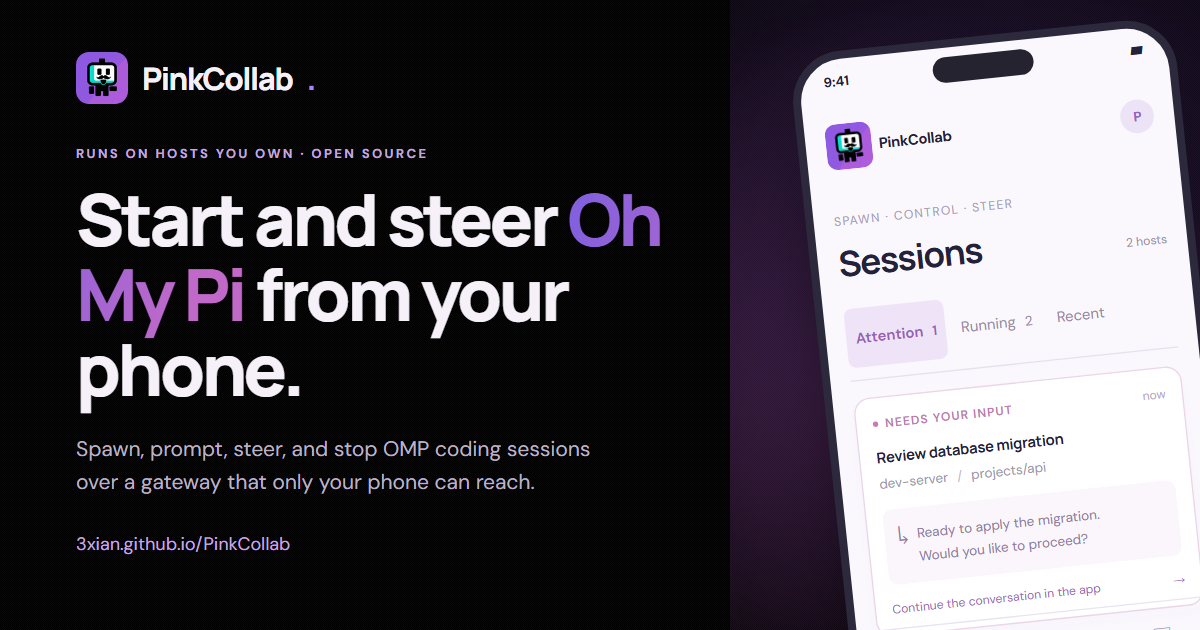
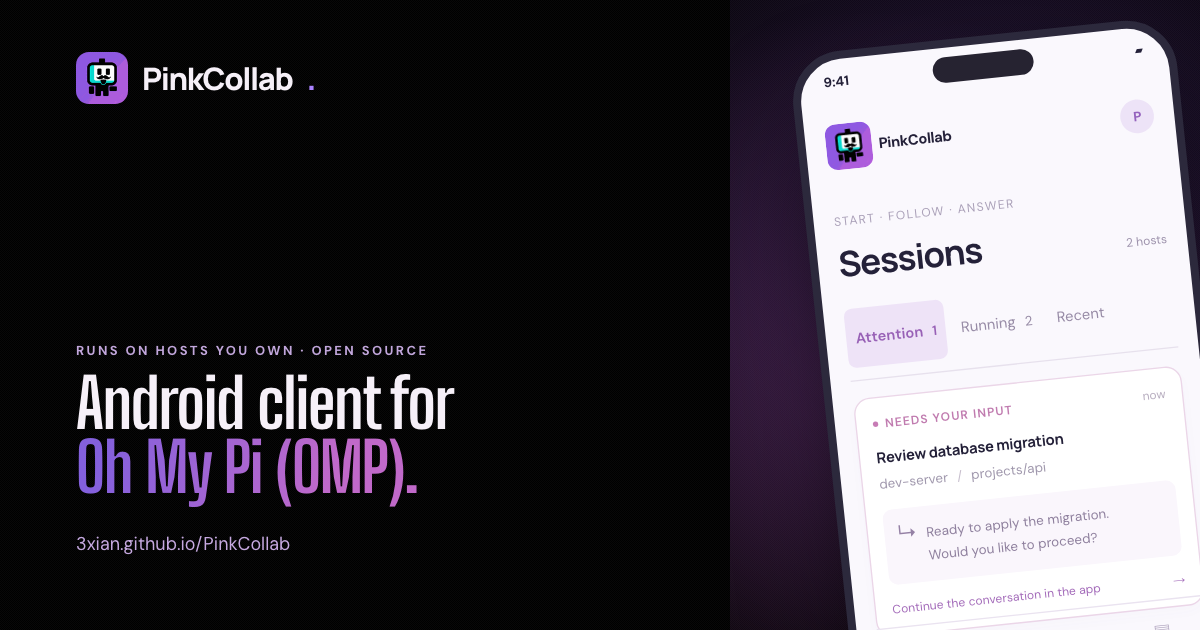
docs: retitle PinkCollab as an Android client for OMP
Replace the spawn-and-steer pitch and set the site title in Big Shoulders Display.

diff --git a/website/index.html b/website/index.html
@@ -4,11 +4,11 @@
   <meta charset="utf-8">
   <meta name="viewport" content="width=device-width, initial-scale=1">
   <meta name="theme-color" content="#15121d">
-  <meta name="description" content="Start and steer Oh My Pi (OMP) coding sessions on your own computers from Android. Pick a workspace, launch the work, follow live progress, and answer when your agent needs you.">
+  <meta name="description" content="Oh My Pi is a coding agent for the terminal. PinkCollab starts a real OMP process on a host you own, so you can prompt, follow, interrupt, and stop it from your phone.">
   <link rel="canonical" href="https://3xian.github.io/PinkCollab/">
   <meta property="og:site_name" content="PinkCollab">
-  <meta property="og:title" content="PinkCollab — Start and Steer OMP Sessions from Android">
-  <meta property="og:description" content="Launch Oh My Pi sessions on your own computer, follow live progress, and answer when your coding agent needs you.">
+  <meta property="og:title" content="PinkCollab — Android client for Oh My Pi (OMP)">
+  <meta property="og:description" content="Oh My Pi is a coding agent for the terminal. PinkCollab starts a real OMP process on a host you own, so you can prompt, follow, interrupt, and stop it from your phone.">
   <meta property="og:type" content="website">
   <meta property="og:url" content="https://3xian.github.io/PinkCollab/">
   <meta property="og:image" content="https://3xian.github.io/PinkCollab/assets/social-card.png">
@@ -17,18 +17,18 @@
   <meta property="og:image:height" content="630">
   <meta property="og:image:alt" content="The PinkCollab wordmark beside an Android phone showing a session list fed by two connected hosts.">
   <meta name="twitter:card" content="summary_large_image">
-  <meta name="twitter:title" content="PinkCollab — Start and Steer OMP Sessions from Android">
-  <meta name="twitter:description" content="Launch Oh My Pi sessions on your own computer, follow live progress, and answer when your coding agent needs you.">
+  <meta name="twitter:title" content="PinkCollab — Android client for Oh My Pi (OMP)">
+  <meta name="twitter:description" content="Oh My Pi is a coding agent for the terminal. PinkCollab starts a real OMP process on a host you own, so you can prompt, follow, interrupt, and stop it from your phone.">
   <meta name="twitter:image" content="https://3xian.github.io/PinkCollab/assets/social-card.png">
   <link rel="icon" href="assets/favicon-48.png" sizes="48x48" type="image/png">
   <link rel="icon" href="assets/favicon-32.png" sizes="32x32" type="image/png">
   <link rel="apple-touch-icon" sizes="180x180" href="assets/apple-touch-icon.png">
   <link rel="preconnect" href="https://fonts.googleapis.com">
   <link rel="preconnect" href="https://fonts.gstatic.com" crossorigin>
-  <link rel="stylesheet" href="https://fonts.googleapis.com/css2?family=DM+Sans:wght@400..700&family=Manrope:wght@400..800&display=swap">
+  <link rel="stylesheet" href="https://fonts.googleapis.com/css2?family=Big+Shoulders+Display:wght@700&family=DM+Sans:wght@400..700&family=Manrope:wght@400..800&display=swap">
   <link rel="stylesheet" href="styles.css">
   <script src="app.js" defer></script>
-  <title>PinkCollab — Start and Steer OMP Sessions from Android</title>
+  <title>PinkCollab — Android client for Oh My Pi (OMP)</title>
 </head>
 <body>
   <a class="skip-link" href="#main">Skip to content</a>
@@ -40,10 +40,9 @@
     <main id="main">
       <section class="hero" aria-labelledby="hero-title">
         <div class="hero-copy">
-          <p class="eyebrow"><span class="live-dot" aria-hidden="true"></span> PINKCOLLAB FOR OMP · OPEN SOURCE</p>
-          <h1 id="hero-title">Start and steer<br><span>Oh My Pi (OMP)</span><br>from Android.</h1>
-          <p class="hero-description">Launch work on your own computer.<br>Follow live progress. Answer when you’re needed.</p>
-          <p class="hero-detail"><a class="text-link" href="https://omp.sh/">Oh My Pi</a> is a coding agent for the terminal. PinkCollab starts a real <code>omp --mode rpc-ui</code> process on a host you own, then keeps its whole lifecycle — prompt, steer, interrupt, stop — in your pocket.</p>
+          <p class="eyebrow"><span class="live-dot" aria-hidden="true"></span> OPEN SOURCE AI TOOL</p>
+          <h1 id="hero-title">Android client for<br><span>Oh My Pi (OMP).</span></h1>
+          <p class="hero-detail"><a class="text-link" href="https://omp.sh/">Oh My Pi</a> is a coding agent for the terminal. PinkCollab starts a real <code>omp --mode rpc-ui</code> process on a host you own, so you can prompt, follow, interrupt, and stop it from your phone.</p>
           <div class="hero-actions"><a class="button button-primary" href="#get-started">Get started <span aria-hidden="true">↗</span></a><a class="button button-text" href="https://github.com/3xian/PinkCollab">Explore the source <span aria-hidden="true">→</span></a></div>
           <div class="hero-platforms"><span>Oh My Pi</span><i aria-hidden="true"></i><span>Android client</span><i aria-hidden="true"></i><span>Rust gateway</span><i aria-hidden="true"></i><span>Your own hosts</span></div>
         </div>
@@ -55,7 +54,7 @@
             <div class="phone-top" aria-hidden="true"><span>9:41</span><div class="camera"></div><span>▰</span></div>
             <div class="phone-content">
               <div class="phone-heading"><img src="assets/logo-96.png" width="34" height="34" decoding="async" alt=""><span>PinkCollab</span><span class="avatar">P</span></div>
-              <div class="phone-title"><div><span class="phone-overline">SPAWN · CONTROL · STEER</span><h2>Sessions</h2></div><span class="host-count">2 hosts</span></div>
+              <div class="phone-title"><div><span class="phone-overline">START · FOLLOW · ANSWER</span><h2>Sessions</h2></div><span class="host-count">2 hosts</span></div>
               <div class="task-tabs" role="tablist" aria-label="Demo session groups">
                 <button id="tab-attention" class="task-tab active" role="tab" aria-selected="true" aria-controls="demo-tasks" data-group="attention">Attention <span>1</span></button>
                 <button id="tab-running" class="task-tab" role="tab" aria-selected="false" aria-controls="demo-tasks" tabindex="-1" data-group="running">Running <span>2</span></button>
@@ -73,10 +72,10 @@
           <span class="scene-caption">Illustrative session view · try the tabs</span>
         </div>
       </section>
-      <div class="principles-strip"><p>One phone.<br><strong>Every workspace.</strong></p><span>Start the work</span><span>Make the call</span><span>Keep it moving <b aria-hidden="true">↗</b></span></div>
+      <div class="principles-strip"><p>One phone.<br><strong>Every workspace.</strong></p><span>Start a session</span><span>Follow it live</span><span>Answer when needed <b aria-hidden="true">↗</b></span></div>
       <section class="workflow section" id="how-it-works" aria-labelledby="workflow-title">
         <div class="section-heading"><p class="eyebrow">FROM YOUR DESK TO YOUR POCKET</p><h2 id="workflow-title">Three steps to a running session.</h2><p>Named exactly as they appear in the Android app.</p></div>
-        <div class="steps"><article><span class="step-number">01</span><h3>Choose a workspace.</h3><p>Open <strong>Workspaces</strong>, browse the roots a paired host allows, and pick the project directory you want to work in.</p></article><article><span class="step-number">02</span><h3>Send the first prompt.</h3><p>Your prompt spawns <code>omp --mode rpc-ui</code> inside that directory. The session joins the list right away with its live status.</p></article><article><span class="step-number">03</span><h3>Follow and steer.</h3><p>Watch streaming replies and tool activity, then use <strong>Send</strong>, <strong>Interrupt</strong>, or <strong>Stop</strong> while the app is connected.</p></article></div>
+        <div class="steps"><article><span class="step-number">01</span><h3>Choose a workspace.</h3><p>Open <strong>Workspaces</strong>, browse the roots a paired host allows, and pick the project directory you want to work in.</p></article><article><span class="step-number">02</span><h3>Send the first prompt.</h3><p>Your prompt spawns <code>omp --mode rpc-ui</code> inside that directory. The session joins the list right away with its live status.</p></article><article><span class="step-number">03</span><h3>Follow it live.</h3><p>Watch streaming replies and tool activity, then use <strong>Send</strong>, <strong>Interrupt</strong>, or <strong>Stop</strong> while the app is connected.</p></article></div>
         <p class="steps-note">No terminal emulator, no editor: PinkCollab starts and controls OMP sessions on your host. It does not attach to a terminal session.</p>
       </section>
       <section class="getting-started section" id="get-started" aria-labelledby="start-title">
@@ -123,10 +122,10 @@ cargo build --release --locked --bin pinkcollab-gateway</code></pre>
       </section>
       
       <section class="architecture section" id="architecture" aria-labelledby="architecture-title">
-        <div class="section-heading architecture-heading"><p class="eyebrow">FROM A TAP TO A RUNNING AGENT</p><h2 id="architecture-title">Your phone starts the work.<br>Your host stays in control.</h2><p>PinkCollab is a direct bridge to OMP — not another agent and not a cloud relay.</p></div>
+        <div class="section-heading architecture-heading"><p class="eyebrow">FROM A TAP TO A RUNNING AGENT</p><h2 id="architecture-title">Your phone starts the session.<br>Your host stays in control.</h2><p>PinkCollab is a direct bridge to OMP — not another agent and not a cloud relay.</p></div>
         <figure class="architecture-panel">
-          <div class="architecture-flow" aria-label="PinkCollab architecture: the Android app connects over HTTPS and WebSocket to a Rust gateway on your host. The gateway spawns and controls Oh My Pi, which connects to your model provider. Workspaces, metadata, and session history stay on the host.">
-            <article class="arch-node arch-external arch-phone-node"><span class="arch-icon" aria-hidden="true">▣</span><span class="arch-kicker">IN YOUR HAND</span><h3>Android app</h3><p>Spawn, follow, steer</p></article>
+          <div class="architecture-flow" aria-label="PinkCollab architecture: the Android app connects over HTTPS and WebSocket to a Rust gateway on your host. The gateway starts and controls Oh My Pi, which connects to your model provider. Workspaces, metadata, and session history stay on the host.">
+            <article class="arch-node arch-external arch-phone-node"><span class="arch-icon" aria-hidden="true">▣</span><span class="arch-kicker">IN YOUR HAND</span><h3>Android app</h3><p>Start, follow, answer</p></article>
             <div class="arch-connection arch-connection-outer"><span>HTTPS · WSS</span><i aria-hidden="true"></i><small>commands + live events</small></div>
             <div class="arch-host">
               <span class="arch-boundary-label">YOUR COMPUTER OR SERVER</span>
@@ -140,7 +139,7 @@ cargo build --release --locked --bin pinkcollab-gateway</code></pre>
             <div class="arch-connection arch-connection-outer"><span>provider API</span><i aria-hidden="true"></i><small>model requests</small></div>
             <article class="arch-node arch-external arch-provider-node"><span class="arch-icon" aria-hidden="true">✦</span><span class="arch-kicker">YOUR ACCOUNT</span><h3>Model provider</h3><p>Your chosen models</p></article>
           </div>
-          <figcaption class="architecture-summary"><span><b>01 · Spawn</b>The Gateway launches a real <code>omp --mode rpc-ui</code> process.</span><span><b>02 · Control</b>Commands go in; structured events stream back to Android.</span><span><b>03 · Own</b>Workspace files and session records live on your host; OMP sends model requests to your provider.</span></figcaption>
+          <figcaption class="architecture-summary"><span><b>01 · Start</b>The Gateway launches a real <code>omp --mode rpc-ui</code> process.</span><span><b>02 · Control</b>Commands go in; structured events stream back to Android.</span><span><b>03 · Own</b>Workspace files and session records live on your host; OMP sends model requests to your provider.</span></figcaption>
           <a class="architecture-detail-link" href="https://github.com/3xian/PinkCollab/blob/main/docs/architecture.md">Architecture <span aria-hidden="true">↗</span></a>
                   <div class="ownership-note"><span aria-hidden="true">⌁</span><p><strong>Your machines stay yours.</strong> OMP runs on your hosts. Model provider credentials are configured there, not on the phone; OMP may send them to your provider when making model requests. Pair devices with a single-use QR code and revoke access when you need to.</p><a href="https://github.com/3xian/PinkCollab/blob/main/docs/deployment.md">Deployment guide <span aria-hidden="true">↗</span></a></div>
         </figure>
@@ -172,7 +171,7 @@ cargo build --release --locked --bin pinkcollab-gateway</code></pre>
       </section>
       <section class="closing"><img src="assets/logo-144.png" width="72" height="72" loading="lazy" decoding="async" alt=""><p>Work keeps moving.<br><strong>So can you.</strong></p><a href="https://github.com/3xian/PinkCollab">Made in the open. Join us on GitHub <span aria-hidden="true">↗</span></a></section>
     </main>
-    <footer><a class="brand footer-brand" href="./"><span>PinkCollab<span class="brand-dot">.</span></span></a><p>Spawn and control <a class="text-link" href="https://omp.sh/">Oh My Pi</a> sessions from Android.</p><div><a href="https://github.com/3xian/PinkCollab">GitHub</a><a href="https://github.com/3xian/PinkCollab/blob/main/docs/protocol.md">API docs</a><a href="https://github.com/3xian/PinkCollab/blob/main/docs/deployment.md">Deployment</a><a href="https://github.com/3xian/PinkCollab/blob/main/LICENSE">License</a></div></footer>
+    <footer><a class="brand footer-brand" href="./"><span>PinkCollab<span class="brand-dot">.</span></span></a><p>Android client for <a class="text-link" href="https://omp.sh/">Oh My Pi (OMP)</a>.</p><div><a href="https://github.com/3xian/PinkCollab">GitHub</a><a href="https://github.com/3xian/PinkCollab/blob/main/docs/protocol.md">API docs</a><a href="https://github.com/3xian/PinkCollab/blob/main/docs/deployment.md">Deployment</a><a href="https://github.com/3xian/PinkCollab/blob/main/LICENSE">License</a></div></footer>
   </div>
 </body>
 </html>

diff --git a/website/404.html b/website/404.html
@@ -5,7 +5,7 @@
   <meta name="viewport" content="width=device-width, initial-scale=1">
   <meta name="theme-color" content="#15121d">
   <meta name="robots" content="noindex">
-  <meta name="description" content="That page is not here. PinkCollab spawns, steers, and stops Oh My Pi coding sessions from Android.">
+  <meta name="description" content="That page is not here. PinkCollab is an Android client for Oh My Pi (OMP).">
   <title>Page not found — PinkCollab</title>
   <link rel="icon" href="/PinkCollab/assets/favicon-48.png" sizes="48x48" type="image/png">
   <link rel="icon" href="/PinkCollab/assets/favicon-32.png" sizes="32x32" type="image/png">
@@ -30,7 +30,7 @@
       <p class="not-found-copy">The link may be out of date, or the page has moved.</p>
       <div class="hero-actions"><a class="button button-primary" href="/PinkCollab/">Back to PinkCollab <span aria-hidden="true">↗</span></a><a class="button button-text" href="/PinkCollab/#how-it-works">How it works <span aria-hidden="true">→</span></a></div>
     </main>
-    <footer><a class="brand footer-brand" href="/PinkCollab/"><span>PinkCollab<span class="brand-dot">.</span></span></a><p>Spawn and control <a class="text-link" href="https://omp.sh/">Oh My Pi</a> sessions from Android.</p><div><a href="https://github.com/3xian/PinkCollab">GitHub</a><a href="https://github.com/3xian/PinkCollab/blob/main/docs/deployment.md">Deployment</a><a href="https://github.com/3xian/PinkCollab/blob/main/LICENSE">License</a></div></footer>
+    <footer><a class="brand footer-brand" href="/PinkCollab/"><span>PinkCollab<span class="brand-dot">.</span></span></a><p>Android client for <a class="text-link" href="https://omp.sh/">Oh My Pi (OMP)</a>.</p><div><a href="https://github.com/3xian/PinkCollab">GitHub</a><a href="https://github.com/3xian/PinkCollab/blob/main/docs/deployment.md">Deployment</a><a href="https://github.com/3xian/PinkCollab/blob/main/LICENSE">License</a></div></footer>
   </div>
 </body>
 </html>

diff --git a/website/styles.css b/website/styles.css
@@ -88,3 +88,5 @@ nav{font-size:15px}.nav-source{border-color:#4a3e57;background:#211b2b}.eyebrow{
 .not-found-copy{font-size:17px;line-height:1.75;color:var(--text-secondary);max-width:520px}
 .not-found .hero-actions{margin-top:34px}
 @media(max-width:480px){.not-found{padding:70px 0 62px}.not-found .hero-actions{flex-direction:column;align-items:stretch}}
+
+.hero h1{max-width:16em;font-family:'Big Shoulders Display',Impact,sans-serif;font-weight:700;font-size:clamp(42px,4.8vw,64px);line-height:0.95;letter-spacing:-0.02em;margin:8px 0 28px}

diff --git a/README.md b/README.md
@@ -2,9 +2,9 @@
 
 <h1 align="center">PinkCollab</h1>
 
-<p align="center"><strong>Spawn and steer OMP sessions from Android.</strong></p>
+<p align="center"><strong>An Awesome Android client for Oh My Pi (OMP).</strong></p>
 
-[Oh My Pi (OMP)](https://omp.sh/) runs on a host you own. Your phone launches the work, follows it live, and answers when OMP needs you.
+[OMP](https://omp.sh/) runs on a host you own. Start a session from your phone, follow it live, and answer when it needs you.
 
 ```mermaid
 flowchart TD
